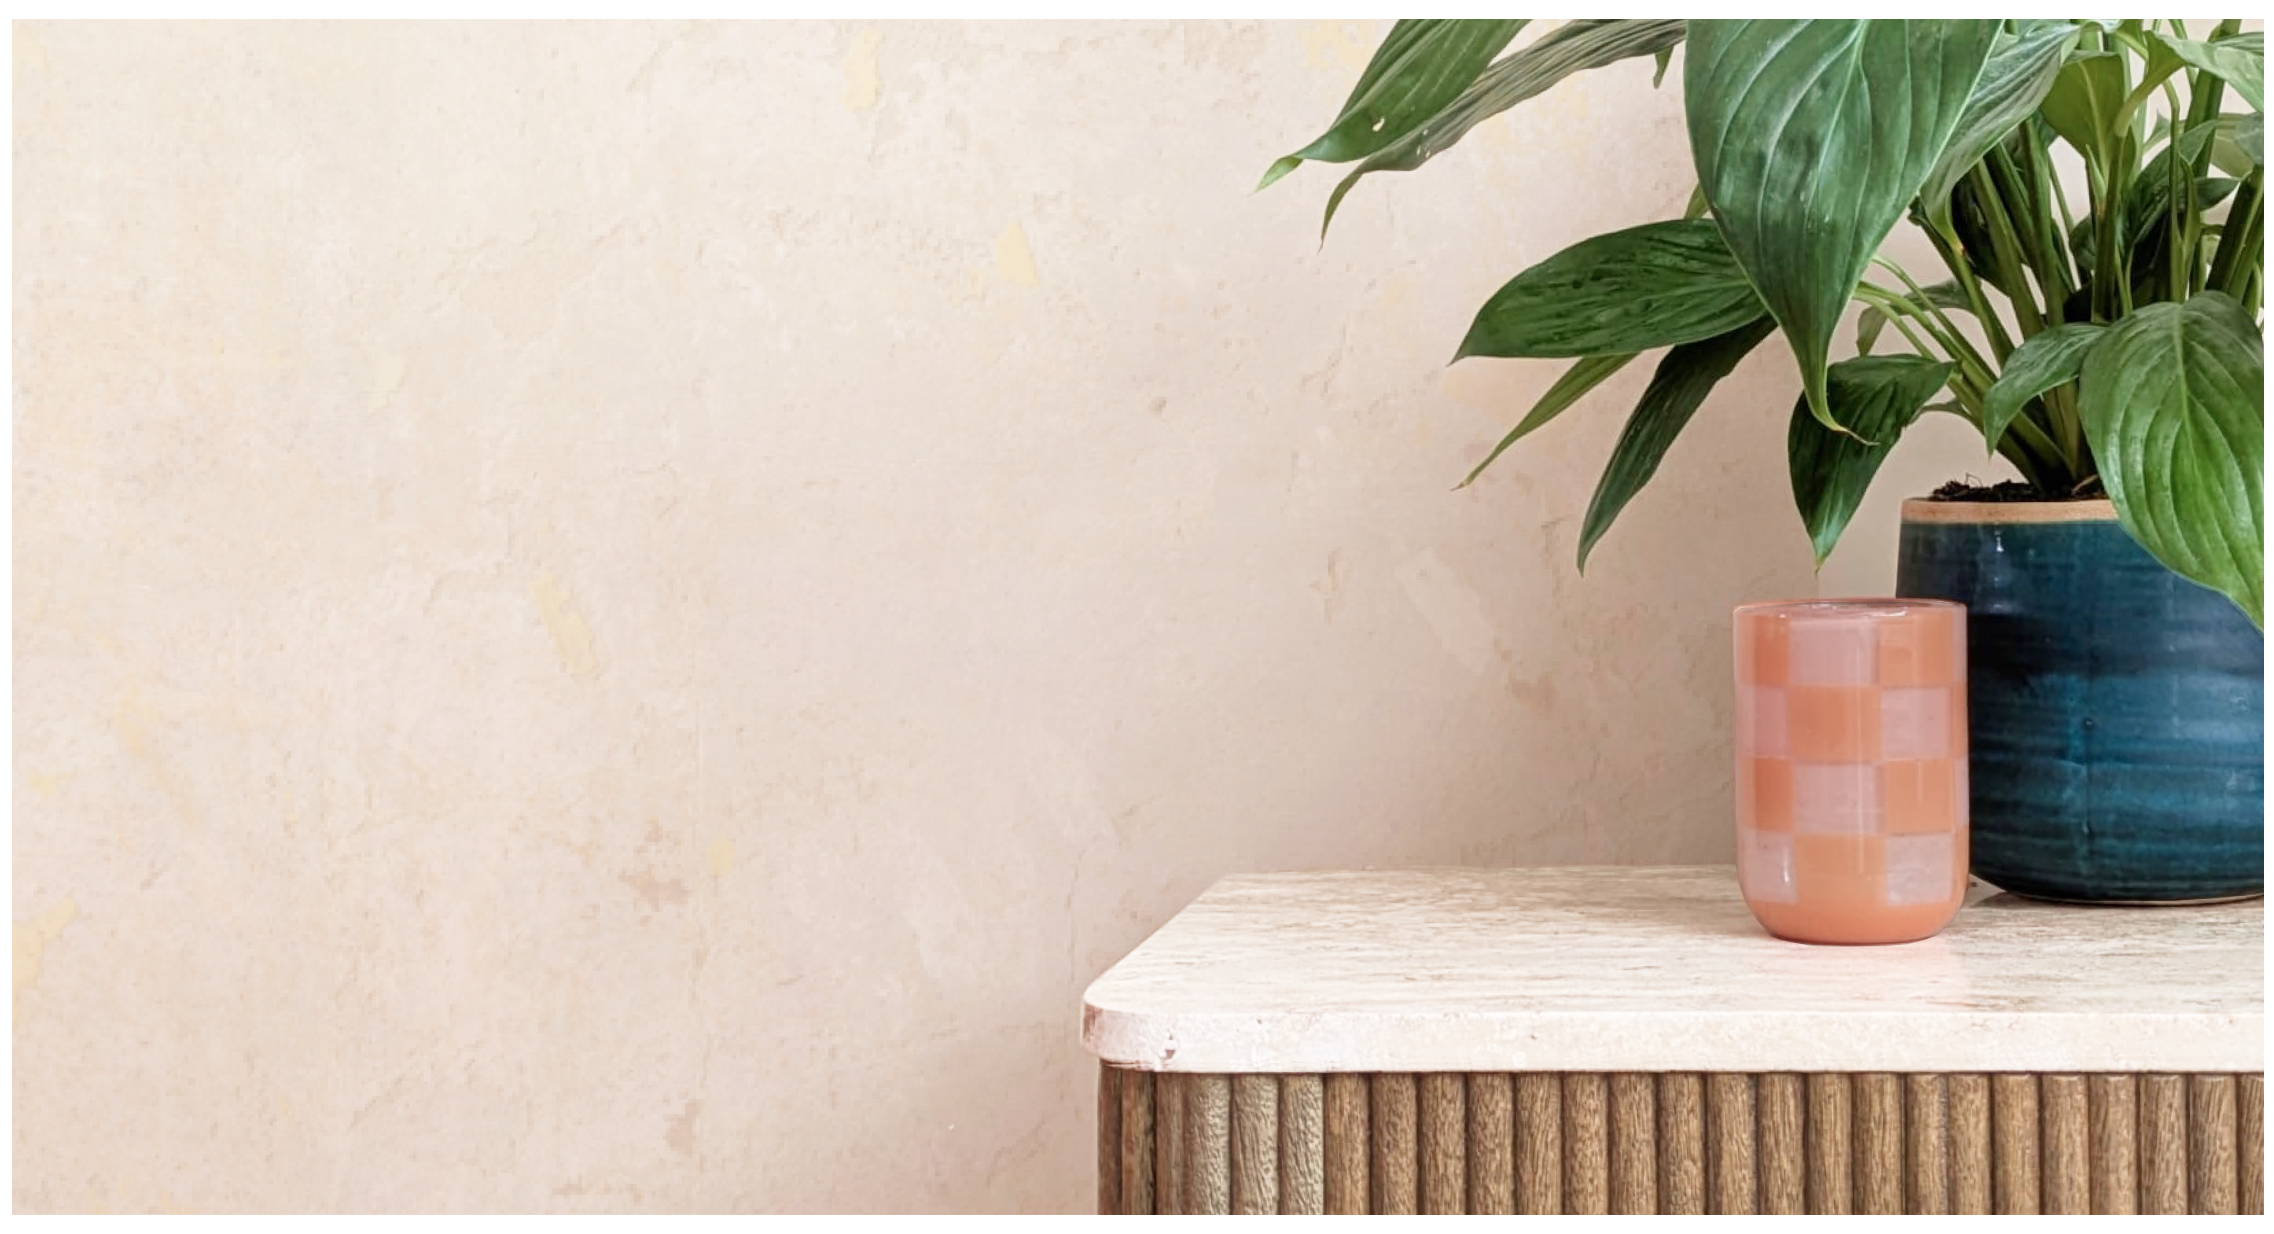
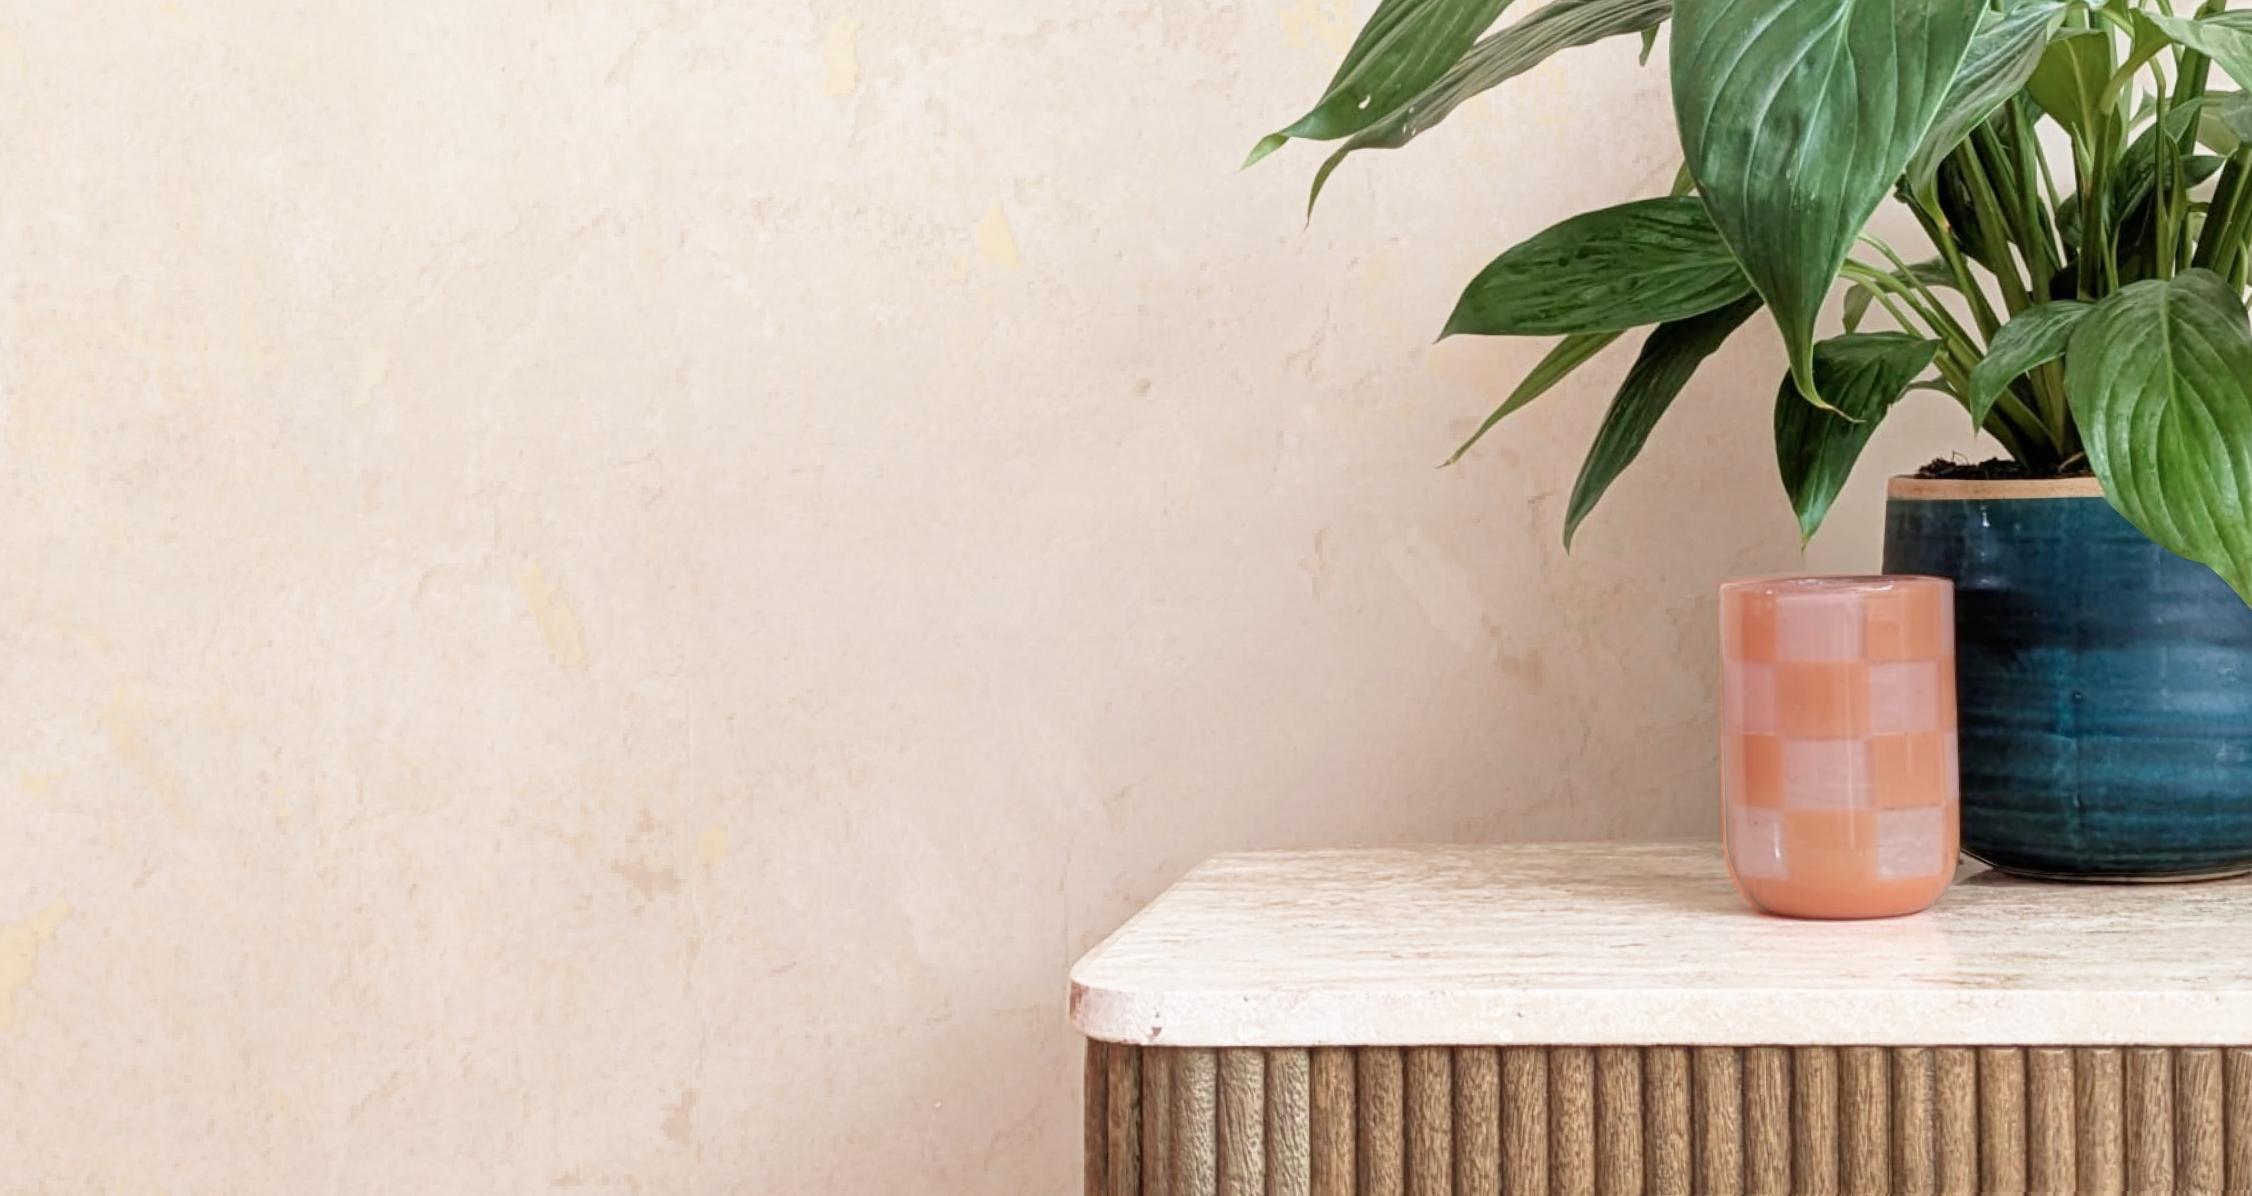
hero tweaks

diff --git a/cb/index.html b/cb/index.html
@@ -39,9 +39,9 @@
         </div>
     </div>
         
-      <div class="wrapper-hero">
+      <div class="wrapper-hero m-0 p-0">
           
-      <div class="row hero w-100 bg-pink mt-3 mb-4 mt-md-2 mt-lg-3 p-0">
+      <div class="row hero w-100 bg-pink mt-0 mb-4 p-0">
          
           <div class="col-9 col-md-10 col-lg-9 col-xl-9 d-flex m-0 p-0">
               <h2 class="hero-text text-start ogg">Creating beautiful, practical interiors where people can flourish.</h2>

diff --git a/cb/css/custom.css b/cb/css/custom.css
@@ -144,7 +144,7 @@ h4 {
 	display: block;
 	-background-color: green;
 	-width: 960px;
-	width: 90%;
+	-width: 90%;
 	max-width: 1600px;
 }
 
